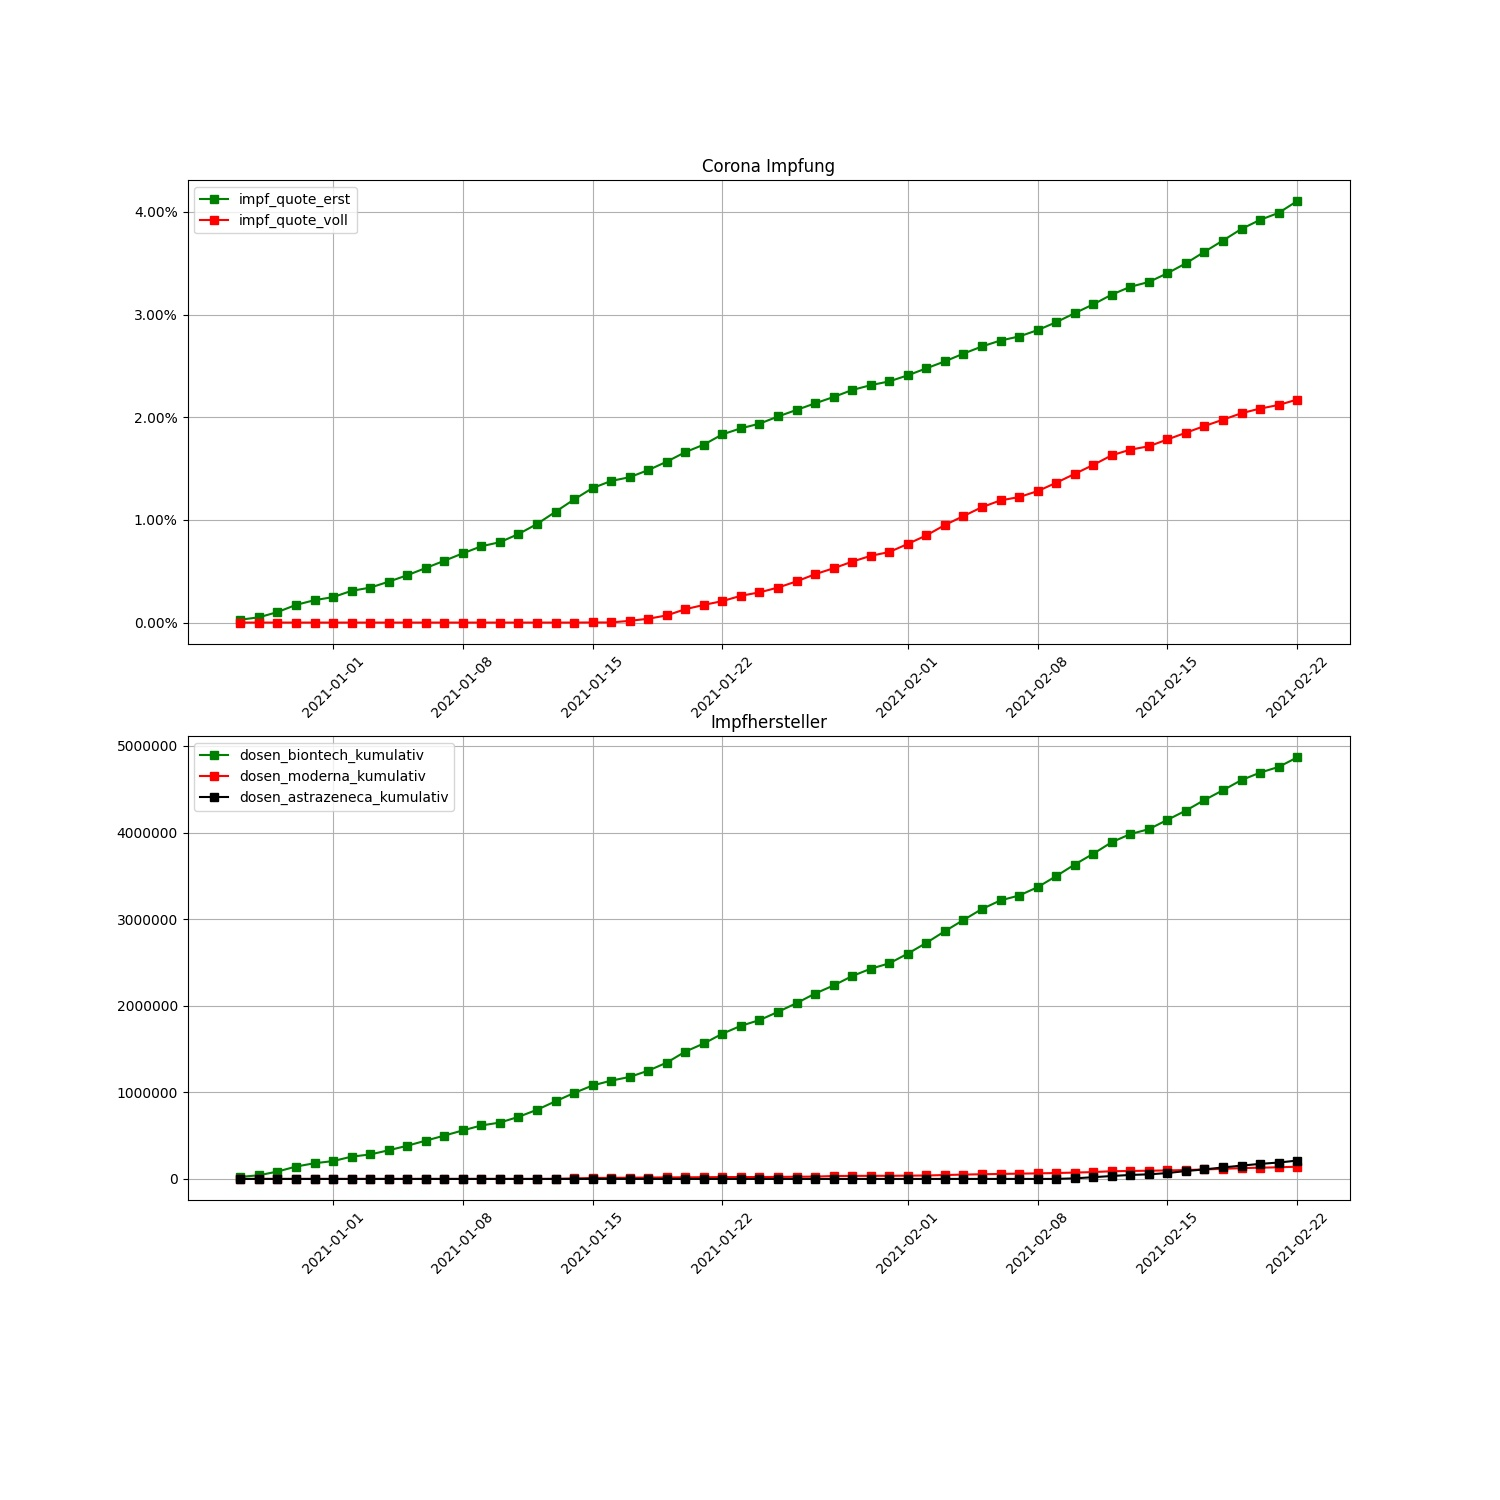
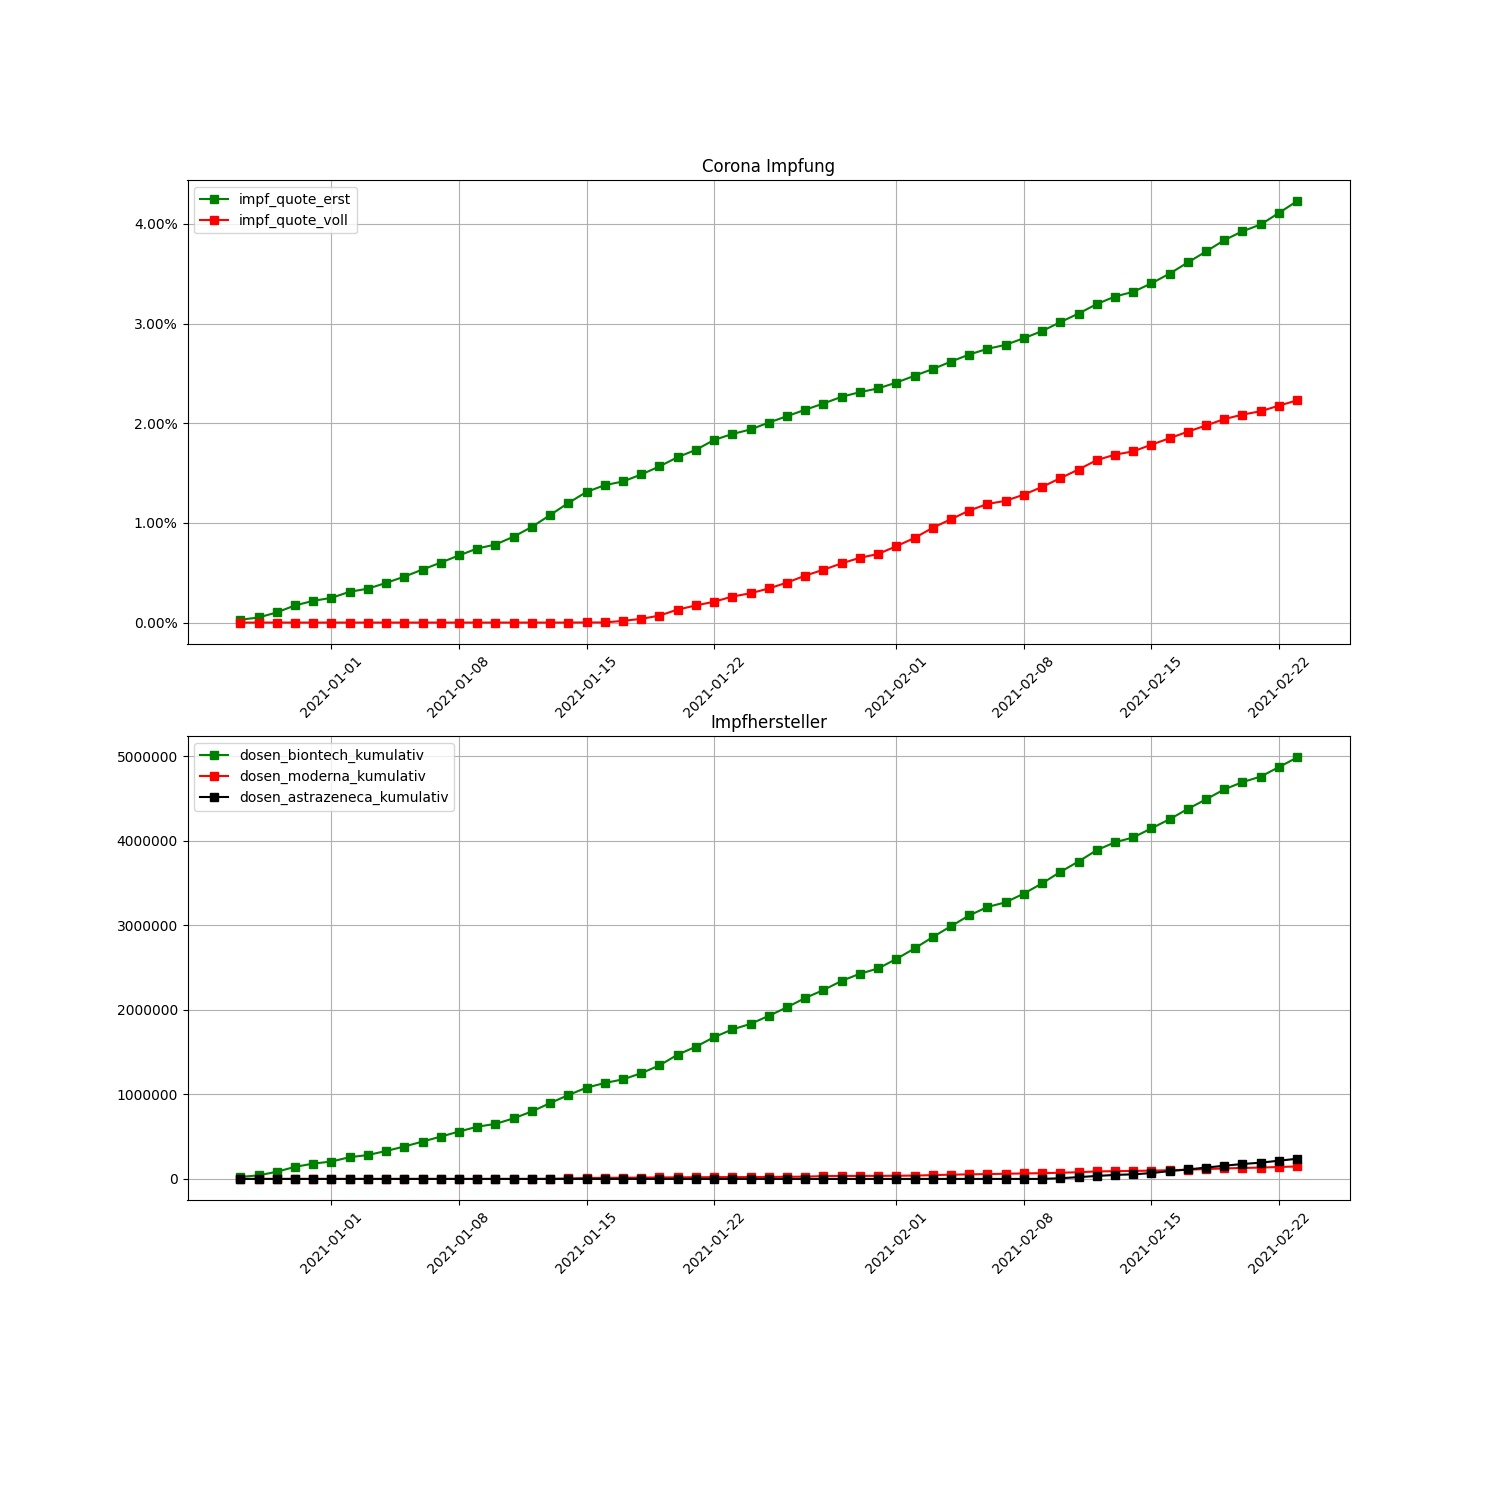
Crontab commit

diff --git a/Readme.md b/Readme.md
@@ -1,19 +1,19 @@
-# Corona vaccine Germany - Stand 2021-02-22
+# Corona vaccine Germany - Stand 2021-02-23
 ## Dashboard by [Simon Hamacher](https://www.shamacher.eu)
 ## Impfstoffe Übersicht
 **Impfstoffhersteller** | **verimpfte Dosen**
 -------- | :--------:
-Biontech | 4867212
-Moderna | 141238
-Astrazeneca | 211886
+Biontech | 4987095
+Moderna | 147571
+Astrazeneca | 238556
 
 
 ## Quoten
-**Total Verimpfte Dosen:** | 5220336
+**Total Verimpfte Dosen:** | 5373222
 -------- | :--------:
-**Erst-Impfquote** | 4.10 %
-**Voll-Impfquote** | 2.17 %
-**Imfungen Durchschnitt** | 90005.79 pro Tag
+**Erst-Impfquote** | 4.23 %
+**Voll-Impfquote** | 2.23 %
+**Imfungen Durchschnitt** | 91071.56 pro Tag
 ## Graphen
 <img src="Impfungen-Corona-01.jpg" alt="Corona-1" title="optionaler Titel" />
 <img src="Impfungen-Corona-02.jpg" alt="Corona-2" title="optionaler Titel" />
